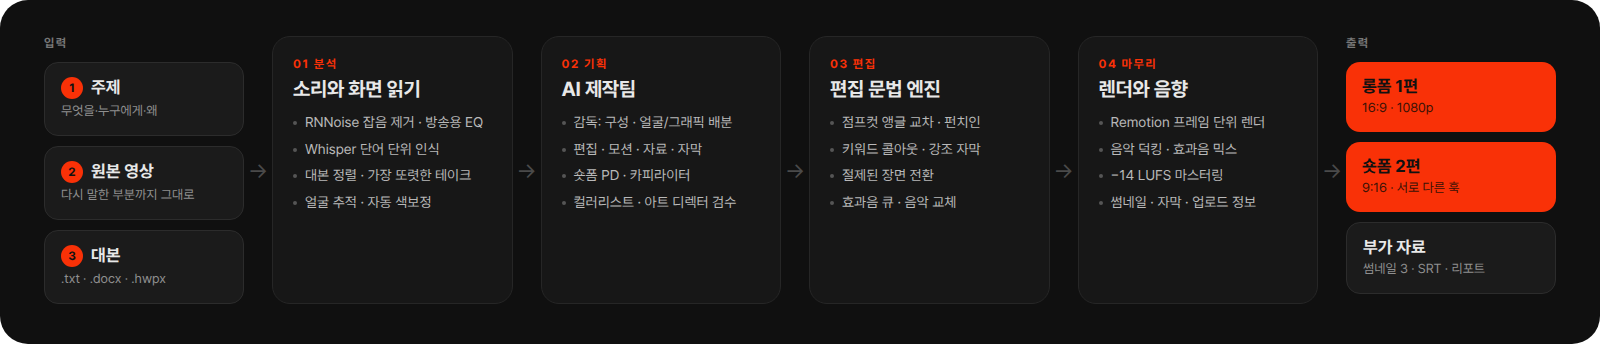
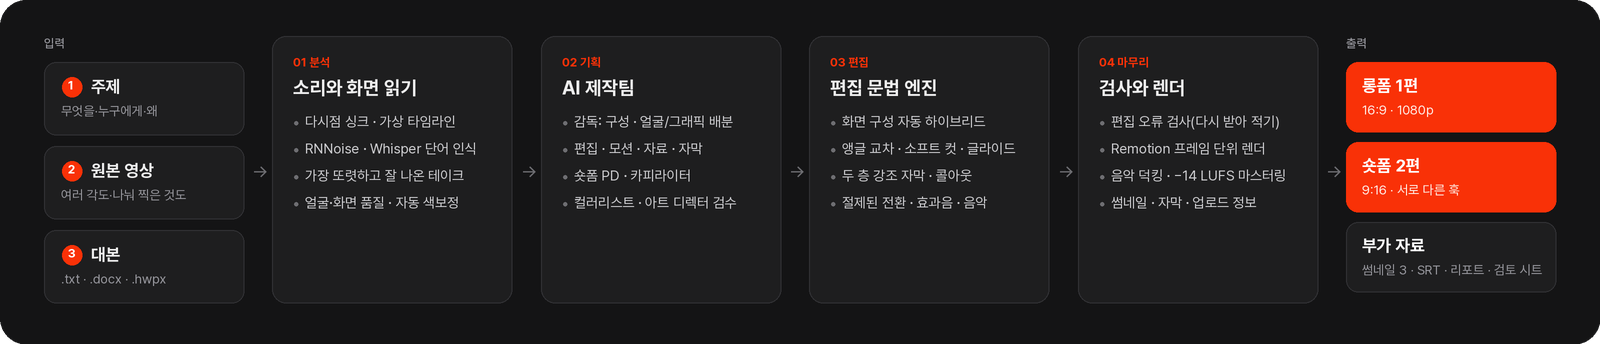
README·문서: 화면 구성 자동 하이브리드 · 원본 여러 개 · 새 디자인 이미지
- README: 입력(원본 여러 개), 작동 방식(다시점 싱크·화면 품질·하이브리드·앵글 교차·
  두 층 강조 자막·30fps), 편집 원칙 표(화면 구성·다시점 앵글·강조 자막·프레임레이트),
  '화면 스타일' 설정 설명을 자동 하이브리드 설명으로, 다시점/나눠 찍기 FAQ,
  프로젝트 구조·개발 명령
- 이미지: 결과 예시(스톡 클립 두 각도 · 종이 콜라주 타이틀 · 기본 도식 · 두 층 강조
  자막 · 개념 카드 · 릴스식 숏폼), 입력 화면(원본 2개), 작동 방식 도식 새로 그림
- docs/디자인_시스템.md: 하이브리드 규칙, 다시점 앵글, 30fps 기준, 두 층 강조 자막,
  릴스 카드 세 가지
- 창: ② 칸 안내 한 줄로

Claude-Session: https://claude.ai/code/session_01G98b8QzT32rjU8uJghBhGK

diff --git a/studio/gui/app.py b/studio/gui/app.py
@@ -421,8 +421,8 @@ class MainWindow(QMainWindow):
         for w in (self.topic, self.script):
             w.textChanged.connect(self._update_ready)
         grid.addWidget(StepCard("1", "주제", "이 영상이 무엇에 관한 것인지", self.topic), 3)
-        grid.addWidget(StepCard("2", "원본 영상", "대본을 말하는 모습을 찍은 긴 원본 그대로(여러 번 다시 말한 것 포함) · "
-                                "여러 각도로 찍었거나 나눠 찍었으면 전부", self.video), 4)
+        grid.addWidget(StepCard("2", "원본 영상", "말하는 모습을 찍은 원본 그대로(다시 말한 것 포함) · 여러 각도·나눠 찍은 것도 전부",
+                                self.video), 4)
         grid.addWidget(StepCard("3", "대본", "읽은 대본 전체", self.script, load), 3)
         outer.addLayout(grid, 1)
         bar = QHBoxLayout()

diff --git a/README.md b/README.md
@@ -24,7 +24,7 @@
 ## 소개
 
 Choi Studio 는 디자인 이론 채널 *Choi Explains Design* 을 만들면서 쓰려고 개발한 개인용 편집 도구입니다. 입력은 세 가지입니다.
-- 대본을 읽으며 찍은 원본 영상
+- 대본을 읽으며 찍은 원본 영상 — 여러 각도로 찍었거나 나눠 찍었으면 여러 개
 - 그 대본
 - 짧은 주제 설명
 
@@ -33,12 +33,14 @@ Choi Studio 는 디자인 이론 채널 *Choi Explains Design* 을 만들면서 
 | 입력 | 결과 |
 |---|---|
 | **주제 설명**: 무엇을, 누구에게, 왜 | **롱폼 1편**: 16:9 · 1080p · −14 LUFS |
-| **원본 영상**: 다시 말한 부분과 NG 가 섞인 그대로 | **숏폼 2편**: 9:16 세로 전용 구성 · 서로 다른 훅 |
+| **원본 영상**: 다시 말한 부분과 NG 가 섞인 그대로(여러 각도·여러 파일 가능) | **숏폼 2편**: 9:16 세로 전용 구성 · 서로 다른 훅 |
 | **대본**: 붙여넣기 또는 `.txt` `.docx` `.hwpx` | **부가 자료**: 썸네일 3장 · 자막(SRT) · 업로드 정보 · 편집 리포트 · 검토 시트 |
 
 편집 판단은 세 단계로 나눕니다.
 1. **Claude 로 구성한 AI 제작팀**이 무엇을 강조하고 어디에 그래픽·자료 사진·스톡을 넣을지 정합니다.
 2. **편집 문법 엔진**이 정해 둔 수치대로 프레이밍·전환·효과음·음악을 입힙니다. 교육 영상이라 튀지 않고 부드럽게 움직입니다.
+   - 화면 구성은 고르지 않습니다. 대본과 기획을 보고 챕터·그래픽마다 **기본 디자인과 종이 콜라주를 섞습니다**(하이브리드).
+   - 원본을 여러 각도로 찍었으면 소리로 싱크를 맞춰, 구간마다 **가장 잘 나온 앵글**을 골라 교차 편집합니다.
 3. **편집 오류 검사**가 완성된 목소리를 한 번 더 받아 적어, 남은 되풀이·추임새·긴 무음을 찾아 다시 자릅니다.
 
 <br>
@@ -49,7 +51,7 @@ Choi Studio 는 디자인 이론 채널 *Choi Explains Design* 을 만들면서 
   <img src="docs/images/sample_output.png" width="900" alt="롱폼과 숏폼 렌더 예시">
 </p>
 
-<sub>위 화면은 스톡 인물 클립과 합성 음성으로 돌린 테스트 렌더입니다. 실제 녹화와 대본을 넣으면 AI 제작팀이 구성·그래픽·강조 문구를 정합니다. 작업마다 `부가자료/검토시트_*.jpg`(2.5초마다 한 장, 시간·자막 포함)가 함께 나오므로 영상을 끝까지 돌려 보지 않아도 결과를 훑어볼 수 있습니다.</sub>
+<sub>스톡 인물 클립을 두 각도(A캠 · 좌우 반전해 당긴 B캠)로 넣고 합성 음성으로 돌린 테스트 렌더입니다. 한 영상 안에서 챕터마다 종이 콜라주와 기본 디자인이 섞이고, 앵글은 점프컷 자리에서 바뀝니다. 실제 녹화와 대본을 넣으면 AI 제작팀이 구성·그래픽·강조 문구를 정합니다. 작업마다 `부가자료/검토시트_*.jpg`(2.5초마다 한 장, 시간·자막 포함)가 함께 나오므로 영상을 끝까지 돌려 보지 않아도 결과를 훑어볼 수 있습니다.</sub>
 
 <br>
 
@@ -67,11 +69,12 @@ Choi Studio 는 디자인 이론 채널 *Choi Explains Design* 을 만들면서 
 <br>
 
 **01 분석**
+- 원본이 여러 개면: 소리 에너지 곡선을 서로 맞춰 보고 같은 순간을 찍은 것(다시점)인지 따로 찍은 것인지 가립니다. 다시점은 시간 차이를 재서 묶고, 따로 찍은 것은 넣은 순서대로 잇습니다. 목소리는 묶음마다 가장 깨끗한 카메라의 소리를 씁니다.
 - 목소리: 신경망 잡음 제거(RNNoise)와 방송용 EQ·컴프레서로 다듬습니다. 영상과 소리의 시작 시각이 어긋난 파일은 그 차이만큼 맞춥니다.
 - 음성 인식: Whisper large-v3 로 단어 단위 시각을 얻고, 말소리 구간(VAD)으로 실제 쉼을 다시 잽니다.
 - 실수 정리: **단어 단위**로 다시 말한 앞부분(“그것의 평가가 / 그것의 평가가 거의 전부”)과 떨어진 추임새(어·음)를 지웁니다. 끝까지 말한 다른 문장은 비슷하게 시작해도 지우지 않습니다.
-- 대본 정렬: 같은 문장을 여러 번 말했으면 **가장 또렷한 테이크**를 남깁니다. 비교 기준은 대본 일치도, 끝까지 말했는지, 발음 확신도, 추임새·말더듬, 음량입니다.
-- 얼굴 추적: YuNet 으로 얼굴 위치를 따라갑니다(콜아웃·사진이 얼굴을 가리지 않게).
+- 얼굴 추적·화면 품질: YuNet 으로 얼굴 위치를 따라가고(콜아웃·사진이 얼굴을 가리지 않게), 초점·밝기·정면을 보는지를 함께 잽니다.
+- 대본 정렬: 같은 문장을 여러 번 말했으면(다른 파일에서 다시 말했어도) **가장 또렷하고 잘 나온 테이크**를 남깁니다. 비교 기준은 대본 일치도, 끝까지 말했는지, 발음 확신도, 추임새·말더듬, 음량, 화면(얼굴·초점)입니다.
 - 자동 색보정: 화이트밸런스·노출·명암·채도를 교정한 뒤, 채널 레퍼런스 장면의 따뜻하고 진한 색(CIELAB 기준)에 맞추는 **웜 리치** 룩을 3D LUT 로 굽습니다.
 
 **02 기획**
@@ -81,14 +84,16 @@ Choi Studio 는 디자인 이론 채널 *Choi Explains Design* 을 만들면서 
 - 아트 디렉터는 실제 렌더된 화면을 보고 글자 넘침이나 가독성 문제를 찾아 수정을 지시합니다.
 
 **03 편집**
+- 화면 구성(자동 하이브리드): 개념·사례가 중심인 챕터는 종이 콜라주(구겨진 종이·찢어진 액자·개념 카드), 구조·과정이 중심인 챕터는 기본 디자인(칠판 패널·분필 도식)으로 두고, 한쪽으로만 쏠리면 섞습니다.
 - 프레이밍은 실수를 잘라낸 자리·챕터·그래픽에서 돌아올 때만 조금(6%) 바꾸고, 같은 프레이밍으로 이어지는 점프컷은 0.1초 섞어 튀지 않게 합니다.
+- 다시점: 점프컷 자리에서 앵글을 바꿔 컷을 가리고, 초점이 나갔거나 얼굴이 빠진 앵글은 피합니다. 한 앵글이 너무 오래 이어지면 비슷하게 좋은 다른 앵글로 교차합니다.
 - 강조는 한 번에 확 당기지 않고 0.7초에 걸쳐 천천히 당깁니다. 화자 반대편 빈 공간에 키워드 콜아웃을 띄웁니다.
 - 장면 전환은 블러·푸시·와이프·빛샘만 씁니다. 전환은 컷 지점을 중심으로 한 오버레이라 영상 길이와 음성 싱크가 바뀌지 않습니다.
-- 자막은 한두 마디씩 말소리에 맞춰 나오고, 화면 그래픽이 같은 말을 이미 보여 주는 동안에는 숨깁니다(SRT 에는 남김).
+- 자막은 한두 마디씩 말소리에 맞춰 나오고, 화면 그래픽이 같은 말을 이미 보여 주는 동안에는 숨깁니다(SRT 에는 남김). 핵심어가 있는 한 마디는 가끔 **두 층 강조 자막**(기울인 명조 앞말 + 아주 굵은 핵심어)으로 띄웁니다.
 - 편집 오류 검사: 잘라 붙인 목소리를 다시 인식해 남은 되풀이·추임새·긴 무음을 찾아 한 번 더 자릅니다.
 
 **04 마무리**
-- Remotion 으로 프레임 단위 렌더를 합니다(무음). 롱폼과 숏폼은 따로 구성합니다 — 숏폼은 롱폼을 잘라 붙인 화면이 아닙니다.
+- Remotion 으로 프레임 단위 렌더를 합니다(무음, 30fps — 60fps 원본은 30fps 로). 롱폼과 숏폼은 따로 구성합니다 — 숏폼은 롱폼을 잘라 붙인 화면이 아닙니다.
 - 목소리, 덕킹한 배경음악(챕터마다 곡 교체), 효과음을 섞어 −14 LUFS · −1 dBTP 로 마스터링합니다.
 - 업로드용 제목 후보, 챕터 타임코드가 들어간 설명란, 태그, 썸네일, 검토 시트를 만듭니다.
 
@@ -98,27 +103,33 @@ Choi Studio 는 디자인 이론 채널 *Choi Explains Design* 을 만들면서 
 
 ## 편집 원칙
 
-기본값은 레퍼런스 연구와 채널 운영자의 피드백에서 가져왔습니다. 연구에는 셜록현준 등 롱폼 9편과 숏폼 10편 실측, 리텐션 편집 가이드, 교육 영상 연구가 들어가고, 채널 운영자가 직접 편집한 장면·참고 릴스로 스타일을 맞췄습니다. 수치와 출처는 [`docs/research`](docs/research) 에, 에이전트가 읽는 요약본은 [`prompts/playbook`](prompts/playbook) 에, 편집 수치는 [`studio/edit/grammar.py`](studio/edit/grammar.py) 의 `PARAMS` 한 곳에 있습니다.
+기본값은 레퍼런스 연구와 채널 운영자의 피드백에서 가져왔습니다. 연구에는 셜록현준 등 롱폼 9편과 숏폼 10편 실측, 리텐션 편집 가이드, 교육 영상 연구가 들어가고, 채널 운영자가 직접 편집한 장면·참고 릴스·Nick Saraev 채널(자막·전환·효과음·음악)로 스타일을 맞췄습니다. 수치와 출처는 [`docs/research`](docs/research) 에, 에이전트가 읽는 요약본은 [`prompts/playbook`](prompts/playbook) 에, 편집 수치는 [`studio/edit/grammar.py`](studio/edit/grammar.py) 의 `PARAMS` 한 곳에 있습니다.
 
 | 항목 | 기본값 | 근거 |
 |---|---|---|
 | 그래픽 밀도 | 8–15초마다 하나, 얼굴만 보이는 구간 최대 12초 | 셜록현준 실측(5–6초마다 화면 변화) · “그래픽이 너무 적다” 피드백 |
+| 화면 구성 | 자동 하이브리드: 챕터마다 기본 디자인 / 종이 콜라주, 개념 카드·타이틀은 늘 종이 | “고르지 말고 알아서 섞어 달라” 피드백 · 운영자 템플릿 |
 | 프레이밍 | 100% ↔ 106%, 실수를 잘라낸 자리·챕터·그래픽 복귀에서만 | “훅훅 튀지 않게” 피드백(교육 영상) |
+| 다시점 앵글 | 점프컷 자리에서 교차, 바꾼 뒤 최소 2.5초, 한 앵글 최대 9초(숏폼 7초·가까운 앵글 선호) | 멀티캠 토크 편집 관례 |
 | 점프컷 | 같은 프레이밍은 0.1초 소프트 컷(앞 장면 마지막 프레임을 섞음) | 같은 피드백 |
 | 강조 | 0.7초 글라이드 +4–9%, 영상당 최대 8회 | 같은 피드백 |
 | 장면 전환 | 블러·푸시·와이프·빛샘, 컷 지점 중심 오버레이 | 리텐션 편집 가이드 |
 | 효과음 | 그래픽 성격별(종이·팝·타자·셔터·스와이프·작은 종), 목소리보다 한참 작게 | 사운드 디자인 가이드 · 피드백 |
 | 자막 | 한두 마디(13자·2.4초 이하), 말소리 시작에 맞춤, 그래픽과 같은 말이면 숨김 | 최근 채널 자막 호흡 · 피드백 |
+| 강조 자막 | 두 층(기울인 명조 + 굵은 핵심어 그라데이션), 롱폼 18초 · 숏폼 3.5초에 한 번 이하 | Nick Saraev 숏폼 실측 |
+| 프레임레이트 | 24/25/30fps(50·60fps 원본은 절반) | 모든 움직임이 30fps 기준 — 60fps 에서 두 배 빨라지던 문제 |
 | 색 | 웜 리치(레퍼런스 장면: 따뜻함 b\* ≈ 14.5, 채도 C\* ≈ 17) | 채널 운영자가 편집한 장면 실측 |
 | 배경음악 | 목소리보다 약 20 LU 아래, 챕터마다 곡 교체 | 믹싱 가이드 |
 | 최종 음량 | −14 LUFS, −1 dBTP | YouTube 재생 기준 |
 | 숏폼 | 위 큰 카드 · 아래 얼굴 · 한두 마디 굵은 자막, 3–5초마다 화면 변화, 첫 3초 훅 | 참고 릴스 · Shorts 5,400편 분석 |
 
-### 화면 스타일
+### 화면 구성(자동 · 하이브리드)
 
-- **기본**: 에디토리얼 디자인(칠판 패널·잉크·시그널 표면) 위에 채널 운영자의 템플릿에서 가져온 요소를 얹습니다 — 얼굴 옆 찢어진 액자 사진과 개념 텍스트, 개념 카드의 글 위계(라벨 → 한 낱말만 강조색인 헤드라인 → 본문 → 회색 주석), 타이틀(글 왼쪽 + 화자 액자), 우상단 출처, 흰 종이 상자 자막.
-- **종이 콜라주**(⚙ 고급 설정 → 브랜드 → 화면 스타일): 구겨진 짙은 종이·회색 거친 테두리·액자 샷까지 템플릿 전체를 씁니다.
-- **숏폼 구성**: 릴스식(기본) · 레터박스 · 얼굴 전체 중에서 고릅니다.
+고르는 설정이 없습니다. 영상마다 대본·전사·기획을 보고 [`studio/edit/style.py`](studio/edit/style.py) 가 정합니다.
+- **기본 디자인**: 에디토리얼(칠판 패널·잉크·시그널 표면) 위에 채널 운영자 템플릿의 요소를 얹습니다 — 얼굴 옆 찢어진 액자 사진과 개념 텍스트, 개념 카드의 글 위계(라벨 → 한 낱말만 강조색인 헤드라인 → 본문 → 회색 주석), 우상단 출처, 흰 종이 상자 자막.
+- **종이 콜라주**: 템플릿 전체 — 구겨진 짙은 종이, 회색 거친 테두리, 개념 카드 + 화자 액자, 화자를 액자에 담은 세 번째 앵글.
+- **섞는 방식**: 개념·사례 중심 챕터는 종이, 구조·과정 중심 챕터는 기본. 개념 카드(키워드·정의·인용·숫자)와 타이틀은 어느 챕터에서든 종이입니다. 모든 챕터가 한쪽으로 쏠리면 하나를 반대로 둬서 반드시 섞습니다. 편집 리포트에 챕터별 구성과 이유가 남습니다.
+- **숏폼**: 위 큰 카드 · 아래 얼굴 · 이음새 굵은 자막(참고 릴스). 개념 카드는 굵은 고딕 + 형광펜 · 기울인 명조 · 어두운 종이 카드를 번갈아 씁니다.
 
 <br>
 
@@ -162,6 +173,7 @@ Choi Studio 는 디자인 이론 채널 *Choi Explains Design* 을 만들면서 
 
 세 칸을 채우고 **영상 만들기**를 누릅니다.
 - 원본 영상은 칸을 눌러 고르거나, 탐색기에서 끌어다 놓거나, 파일을 복사한 뒤 `Ctrl+V` 로 넣습니다.
+- 여러 각도로 찍었거나 나눠 찍었으면 영상을 모두 넣습니다(한꺼번에 고르기 · **＋ 다른 각도·추가 영상**). 나눠 찍은 파일은 넣은 순서대로 이어집니다.
 - 진행 화면에서 단계, 남은 시간, AI 팀 작업 기록, 실시간 미리보기(색보정 → 검수 장면 → 렌더링 중인 화면)를 볼 수 있습니다.
 - 끝나면 결과 화면에서 바로 재생하거나 폴더를 엽니다.
 
@@ -210,7 +222,19 @@ output/
 
 <br>
 
-없습니다. 제목, 구성, 얼굴과 그래픽 배분, 강조, 음악, 숏폼 구간은 모두 자동으로 정합니다. 오른쪽 위 ⚙(고급 설정)에서 바꿀 수 있는 것은 AI 연결 방식, 스톡 키, 브랜드 색·이름·화면 스타일·숏폼 구성, 저장 경로 정도입니다.
+없습니다. 제목, 화면 구성, 얼굴과 그래픽 배분, 강조, 음악, 숏폼 구간, 앵글은 모두 자동으로 정합니다. 오른쪽 위 ⚙(고급 설정)에서 바꿀 수 있는 것은 AI 연결 방식, 스톡 키, 브랜드 색·이름, 저장 경로 정도입니다.
+
+</details>
+
+<details>
+<summary><b>카메라 두 대로 찍었어요 / 여러 번에 나눠 찍었어요.</b></summary>
+
+<br>
+
+② 칸에 영상을 모두 넣으면 됩니다.
+- **같은 순간을 다른 각도에서 찍은 것**: 소리로 싱크를 맞춥니다(녹화 시작 시각이 달라도 됩니다). 15초 창마다 같은 시간 차이인지 확인하므로, 같은 대본을 따로 두 번 찍은 영상과 헷갈리지 않습니다. 목소리는 가장 깨끗한 카메라의 소리를 쓰고, 화면은 구간마다 얼굴이 잘 보이고 초점·밝기가 맞는 앵글을 골라 점프컷 자리에서 교차합니다. 카메라마다 색을 따로 맞춰 같은 룩으로 모읍니다.
+- **나눠 찍은 것**: 넣은 순서대로 잇습니다. 앞 파일에서 한 말을 뒤 파일에서 다시 했으면 더 또렷하고 잘 나온 쪽만 남깁니다.
+- 소리가 없는 영상은 싱크를 맞출 수 없어 뺍니다. 어느 구간에 어느 앵글을 썼는지는 `work/angles.json` 과 편집 리포트에 남고, Premiere XML 도 조각마다 해당 카메라 파일을 가리킵니다.
 
 </details>
 
@@ -319,6 +343,8 @@ output/
 | 경로 | 내용 |
 |---|---|
 | `studio/pipeline.py` | 단계 오케스트레이션(분석 → 기획 → 편집 → 검사 → 마무리), 단계별 캐시 |
+| `studio/media/sources.py` | 원본 여러 개: 소리 싱크·묶음, 가상 타임라인, 앵글 고르기 |
+| `studio/edit/style.py` | 화면 구성 자동 선택(하이브리드) |
 | `studio/gui/` | 데스크톱 창(입력 · 진행 · 결과), 관리자 창 끌어다 놓기 |
 | `studio/agents/` · `studio/director/` | AI 제작팀, Claude 연결(Claude Code / API), 규칙 기반 대체 |
 | `studio/text/takes.py` · `studio/text/align.py` | 단어 단위 실수 정리, 대본 정렬·테이크 선택 |
@@ -343,14 +369,14 @@ output/
 python -m pytest tests -q
 cd renderer && npx tsc --noEmit
 
-# AI 없이 전체 파이프라인
-python tests/e2e_synthetic.py --browser <chrome> --face 얼굴.mp4
+# AI 없이 전체 파이프라인(--multi multicam|split: 원본 2개 — 다시점 · 나눠 찍기)
+python tests/e2e_synthetic.py --browser <chrome> --face 얼굴.mp4 [--multi multicam]
 
 # 가짜 Claude Code·스톡 서버로 AI 제작팀까지 전체
 python tests/e2e_studio.py --browser <chrome>
 
 # 창 없이 실행
-python -m studio run --video 원본.mp4 --topic "주제" --script 대본.txt
+python -m studio run --video 원본.mp4 [다른각도.mp4 …] --topic "주제" --script 대본.txt
 ```
 
 개발 규칙은 [`CLAUDE.md`](CLAUDE.md) 에 있습니다.

diff --git a/docs/디자인_시스템.md b/docs/디자인_시스템.md
@@ -2,7 +2,8 @@
 
 레퍼런스 세 가지를 하나의 시스템으로 합쳤습니다.
 
-0. **채널 운영자가 직접 편집한 장면·템플릿**(2026-09) — 기본 디자인을 대체하지 않고 *부분* 참고: 찢어진 흰 액자 사진, 개념 카드의 글 위계, 우상단 출처, 흰 종이 상자 자막, 따뜻하고 진한 색. 전부 쓰고 싶으면 '종이 콜라주' 스킨(아래 8장).
+0. **채널 운영자가 직접 편집한 장면·템플릿**(2026-09) — 기본 디자인을 대체하지 않고 *부분* 참고: 찢어진 흰 액자 사진, 개념 카드의 글 위계, 우상단 출처, 흰 종이 상자 자막, 따뜻하고 진한 색. 템플릿 전체(구겨진 종이 · 거친 테두리 · 액자 샷)는 영상마다 대본·기획을 보고 기본 디자인과 **챕터·그래픽 단위로 섞어** 쓴다(아래 8장, 자동 하이브리드 — 고르는 설정 없음).
+   참고 릴스(세로 구성)와 **Nick Saraev** 채널(자막·전환·효과음·음악의 절제)도 실측해 반영했다(`prompts/playbook/`).
 1. **셜록현준** (docs/research/셜록현준_편집스타일_리서치.md) — 화자 중심의 차분한 교양 토크, 칠판형 사이드 패널, 평면·단면도 같은 *설명 도구로서의* 그래픽, 장소/사물 중심 챕터.
 2. **Musicbed × Filmsupply, Commercial Filmmaking Trend Report 2026** (첨부 PDF) — 에디토리얼 레이아웃(러닝 헤더, 초대형 콘덴스드 타이포, 괄호 캡션, ▣ 크레딧), 시그널 레드-오렌지, 필름 질감, 그리고 "Keep it stupid cinematic / Keep it human / Controlled chaos의 대비" 라는 편집 철학.
 
@@ -56,6 +57,8 @@
 교육 영상이라 **튀지 않게**(2026-09 운영자 피드백: “훅훅 튀어 정신없다”).
 - 등장: ease-out 12~18프레임, 텍스트는 마스크 안에서 아래→위로 3~4프레임 간격 스태거. 퇴장은 진입의 75%.
 - 카메라: 와이드 100% ↔ 미디엄 106%, 실수를 잘라낸 자리·챕터·그래픽 복귀에서만. 샷 안은 초당 0.4%(최대 5%)로 아주 느리게.
+- 다시점(원본을 여러 각도로 찍었을 때): 줌 대신 **앵글**을 바꾼다 — 점프컷 자리에서, 바꾼 뒤 최소 2.5초 유지, 한 앵글 최대 9초(숏폼 7초·가까운 앵글 선호). 앵글이 바뀌는 컷은 소프트 컷 없이 하드 컷, 새 샷은 와이드(100%)부터. 초점이 나갔거나 얼굴이 빠진 앵글은 피한다.
+- 모든 움직임은 30fps 프레임 수로 짠다. 출력은 24/25/30fps — 50·60fps 원본(휴대폰)은 절반으로 내보내 움직임 속도가 같게.
 - 점프컷: 같은 프레이밍이면 앞 장면 마지막 프레임을 0.1초 섞는 소프트 컷(길이·싱크 불변).
 - 강조: 0.7초에 걸쳐 당기고 0.9초에 걸쳐 풀리는 글라이드(+4~9%). 콜아웃 자리 만들기도 천천히 옮겨 간다.
 - 전환: 블러·푸시·와이프(챕터)·빛샘(타이틀)만. 휩·플래시·줌 전환은 쓰지 않는다.
@@ -66,10 +69,10 @@
 
 - 롱폼: 하단 중앙 **흰 종이 상자 + 검정 글씨, 핵심어 어간만 굵게**(운영자 템플릿). 한두 마디(13자·2.4초 이하)씩, 말소리 시작에 맞춤.
 - 화면 그래픽(개념 카드·도식·콜아웃)이 같은 말을 이미 보여 주면 그 자막은 화면에서 숨긴다(SRT 에는 남김).
-- 숏폼(릴스식): 위 카드와 아래 얼굴 사이 이음새에 1~2어절(8자 안팎)씩 아주 굵은 흰 글씨 + 검정 외곽선·그림자, 강조어는 강조색.
-- 자막 스타일(폰트 섞기·색 변화·단어별 모션·배치 변화)은 참고 채널 조사 결과로 계속 다듬는 중.
+- 숏폼(릴스식): 위 카드와 아래 얼굴 사이 이음새에 1~2어절(6자 안팎)씩 아주 굵은 흰 글씨 + 검정 외곽선·그림자, 강조어는 강조색.
+- **두 층 강조 자막**(Nick Saraev 실측을 한국어로): 윗줄은 기울인 명조 흰 글씨(앞말), 아랫줄은 아주 굵은 고딕 핵심어(크림 → 따뜻한 주황 그라데이션, 숫자는 Anton). 핵심어가 들리는 순간 4프레임에 흐림 12px → 0 · 10px 떠오르며 등장, 상자·외곽선 없이 번짐 그림자만. 핵심어가 있는 한 마디에만 — 롱폼 18초 · 숏폼 3.5초에 한 번 이하(자주 쓰면 강조가 사라진다), 화면 그래픽이 글을 보여 주는 동안은 쓰지 않는다.
 
-## 7. 사용자 템플릿에서 가져온 요소(기본 스킨)
+## 7. 사용자 템플릿에서 가져온 요소(기본 구성에서도 늘 쓰는 것)
 
 | 요소 | 모양 | 쓰는 곳 |
 |---|---|---|
@@ -79,15 +82,21 @@
 | 출처 | 우상단 작은 흰 글씨 “출처: …” | 자료 사진·스톡·인용 |
 | 엔드카드 | 오늘의 정리(챕터 목록) + 다음 영상 자리 2칸(액자) | 롱폼 끝 |
 
-## 8. 종이 콜라주 스킨(선택)
+## 8. 화면 구성: 자동 하이브리드(기본 × 종이 콜라주)
 
-⚙ 고급 설정 → 브랜드 → 화면 스타일에서 고른다. 운영자 템플릿 3장을 측정해 그대로 옮긴 것:
-구겨진 짙은 종이(절차적 생성) · 회색 거친 테두리(두께 약 38px) · 개념 카드 + 오른쪽 화자 액자 · 화자 전체를 액자에 담은 세 번째 앵글 · 얼굴 옆 액자 사진 + 개념 텍스트.
+사용자가 스타일을 고르지 않는다. `studio/edit/style.py` 가 대본·전사·기획(그래픽 종류)을 보고 정한다.
+
+- **종이 콜라주** — 운영자 템플릿 3장을 측정해 옮긴 것: 구겨진 짙은 종이(절차적 생성) · 회색 거친 테두리(두께 약 38px) · 개념 카드 + 오른쪽 화자 액자 · 화자 전체를 액자에 담은 세 번째 앵글 · 얼굴 옆 액자 사진 + 개념 텍스트.
+- **기본(에디토리얼)** — 칠판 패널 · 잉크 · 시그널 표면, 분필 도식.
+- 챕터마다: 개념·사례·이야기가 중심(키워드·정의·인용·숫자·자료 사진, "예를 들어·제가·경험…")이면 종이, 구조·과정이 중심(프로세스·순환·매트릭스·비교·연표, "단계·구조·비교·첫째…")이면 기본. 챕터가 둘 이상인데 한쪽으로만 쏠리면 차이가 가장 작은 챕터를 반대로 둬서 **반드시 섞는다**.
+- 그래픽마다: 개념 카드(키워드·정의·인용·숫자)와 타이틀은 어느 챕터에서든 종이(글 왼쪽 + 화자 액자), 도식·사진·스톡·모션은 그 챕터의 구성을 따른다. 액자 샷은 종이 챕터에서만.
+- 결과는 편집 리포트에 “화면 구성(자동 · 하이브리드): 챕터 1 종이(개념·사례 중심) · 챕터 2 기본(구조·도식 중심)”처럼 남는다.
 
 ## 9. 숏폼 구성
 
-- **릴스식(기본)** — 참고 릴스 구성: 위 큰 둥근 카드(사진·스톡이 가득 / 어두운 앱 창 같은 도식 카드 / 흰 개념 카드 + 형광펜)가 말에 맞춰 바뀌고, 아래는 얼굴 전체 폭, 이음새에 굵은 자막. 사진이 있으면 첫 2.2초는 카드 여러 장이 부채꼴로 겹친 흰 화면 + 큰 제목.
-- 레터박스(셜록현준식) · 얼굴 전체 + 위 도식 패널도 고를 수 있다.
+- **릴스식** — 참고 릴스 구성: 위 큰 둥근 카드가 말에 맞춰 바뀌고, 아래는 얼굴 전체 폭, 이음새에 굵은 자막. 사진이 있으면 첫 2.2초는 카드 여러 장이 부채꼴로 겹친 흰 화면 + 큰 제목.
+- 카드: 사진·스톡이 가득 / 어두운 앱 창 같은 도식 카드 / 개념 카드 세 가지를 번갈아 — 굵은 고딕 + 형광펜, 기울인 명조(에디토리얼), 어두운 구겨진 종이 + 라벨 태그 + 강조 낱말(종이 콜라주).
+- 숏폼은 롱폼을 잘라 붙인 화면이 아니라 따로 구성한다(그 구간의 롱폼 그래픽을 물려받고, AI 가 3~5초마다 바뀌는 개념 텍스트를 쓴다). 레터박스·얼굴 전체 구성은 개발·시험용으로만 남아 있다.
 
 ## 10. 템플릿 확장하기
 
